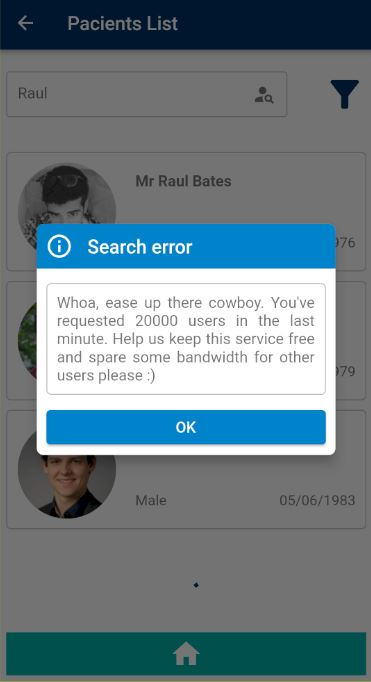
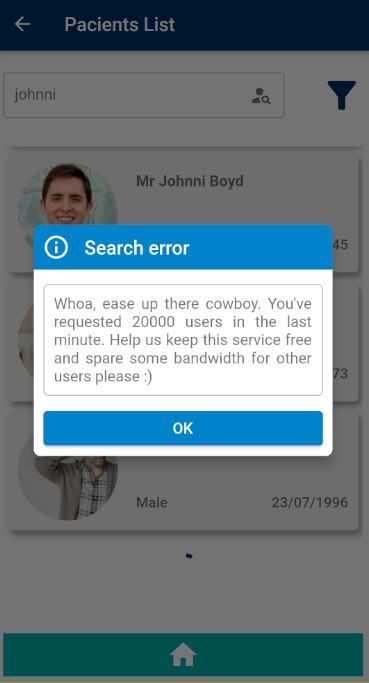
Popover filter and patient item style adjustments

diff --git a/lib/components/popovers/patient_filter_options.dart b/lib/components/popovers/patient_filter_options.dart
@@ -31,6 +31,7 @@ class _PatientFilterOptionsState extends State<PatientFilterOptions> {
             mainAxisSize: MainAxisSize.min,
             children: [
               Radio(
+                activeColor: Theme.of(context).colorScheme.secondaryVariant,
                 value: gender.value,
                 materialTapTargetSize: MaterialTapTargetSize.shrinkWrap,
                 groupValue: widget.filterOptionsService.getSelectedGender,
@@ -56,6 +57,7 @@ class _PatientFilterOptionsState extends State<PatientFilterOptions> {
             mainAxisSize: MainAxisSize.min,
             children: [
               Checkbox(
+                  activeColor: Theme.of(context).colorScheme.secondaryVariant,
                   materialTapTargetSize: MaterialTapTargetSize.shrinkWrap,
                   value: nationality.value,
                   onChanged: (bool? newValue) => setState(() => widget
@@ -76,34 +78,86 @@ class _PatientFilterOptionsState extends State<PatientFilterOptions> {
   Widget build(BuildContext context) {
     return Padding(
       padding: const EdgeInsets.all(10),
-      child: SingleChildScrollView(
-        child: Column(
+      child: Builder(builder: (context) {
+        return SingleChildScrollView(
+          child: Column(
+            crossAxisAlignment: CrossAxisAlignment.start,
+            mainAxisSize: MainAxisSize.min,
+            children: [
+              Text(
+                'Gender:',
+                style: Theme.of(context).textTheme.headline4,
+              ),
+              const SizedBox(height: 5),
+              Wrap(
+                direction: Axis.horizontal,
+                children: getGenders(),
+              ),
+              const SizedBox(height: 15),
+              Text(
+                'Nationalities:',
+                style: Theme.of(context).textTheme.headline4,
+              ),
+              const SizedBox(height: 5),
+              Wrap(
+                direction: Axis.horizontal,
+                children: getNationalitites(),
+              ),
+              const SizedBox(height: 15),
+              ElevatedButton(
+                child: const Text(
+                  'Filter',
+                  style: TextStyle(
+                    fontSize: 16,
+                    fontWeight: FontWeight.w400,
+                  ),
+                ),
+                style: ElevatedButton.styleFrom(
+                    tapTargetSize: MaterialTapTargetSize.shrinkWrap,
+                    primary: Theme.of(context).colorScheme.secondary,
+                    onPrimary: Colors.white,
+                    minimumSize: const Size.fromHeight(40)),
+                onPressed: () {
+                  FocusScope.of(context).unfocus();
+                  widget.filterFromPopover(
+                      widget.filterOptionsService.getLastNameQuery);
+                  Navigator.of(context).pop();
+                },
+              )
+            ],
+          ),
+        );
+      }),
+    );
+  }
+}
+
+
+/*Padding(
+      padding: const EdgeInsets.all(10),
+      child: Builder(builder: (context) {
+        return Column(
+          crossAxisAlignment: CrossAxisAlignment.start,
           mainAxisSize: MainAxisSize.min,
           children: [
-            Column(
-              mainAxisSize: MainAxisSize.min,
-              crossAxisAlignment: CrossAxisAlignment.start,
-              children: [
-                Text(
-                  'Gender:',
-                  style: Theme.of(context).textTheme.headline4,
-                ),
-                const SizedBox(height: 5),
-                Wrap(
-                  direction: Axis.horizontal,
-                  children: getGenders(),
-                ),
-                const SizedBox(height: 15),
-                Text(
-                  'Nationalities:',
-                  style: Theme.of(context).textTheme.headline4,
-                ),
-                const SizedBox(height: 5),
-                Wrap(
-                  direction: Axis.horizontal,
-                  children: getNationalitites(),
-                )
-              ],
+            Text(
+              'Gender:',
+              style: Theme.of(context).textTheme.headline4,
+            ),
+            const SizedBox(height: 5),
+            Wrap(
+              direction: Axis.horizontal,
+              children: getGenders(),
+            ),
+            const SizedBox(height: 15),
+            Text(
+              'Nationalities:',
+              style: Theme.of(context).textTheme.headline4,
+            ),
+            const SizedBox(height: 5),
+            Wrap(
+              direction: Axis.horizontal,
+              children: getNationalitites(),
             ),
             const SizedBox(height: 15),
             ElevatedButton(
@@ -115,10 +169,10 @@ class _PatientFilterOptionsState extends State<PatientFilterOptions> {
                 ),
               ),
               style: ElevatedButton.styleFrom(
-                tapTargetSize: MaterialTapTargetSize.shrinkWrap,
-                primary: Theme.of(context).colorScheme.secondary,
-                onPrimary: Colors.white,
-              ),
+                  tapTargetSize: MaterialTapTargetSize.shrinkWrap,
+                  primary: Theme.of(context).colorScheme.secondary,
+                  onPrimary: Colors.white,
+                  minimumSize: const Size.fromHeight(40)),
               onPressed: () {
                 FocusScope.of(context).unfocus();
                 widget.filterFromPopover(
@@ -127,8 +181,6 @@ class _PatientFilterOptionsState extends State<PatientFilterOptions> {
               },
             )
           ],
-        ),
-      ),
-    );
-  }
-}
+        );
+      }),
+    );*/

diff --git a/lib/components/patients/patient_item.dart b/lib/components/patients/patient_item.dart
@@ -15,7 +15,7 @@ class PatientItem extends StatelessWidget {
   Widget build(BuildContext context) {
     return GestureDetector(
         child: Container(
-          margin: const EdgeInsets.only(bottom: 10),
+          margin: const EdgeInsets.only(bottom: 10, left: 5, right: 5),
           padding: const EdgeInsets.only(
             left: 0,
             top: 10,
@@ -23,10 +23,18 @@ class PatientItem extends StatelessWidget {
             bottom: 10,
           ),
           decoration: BoxDecoration(
-            border: Border.all(
-              width: 1,
-              color: Colors.grey.shade400,
-            ),
+            boxShadow: const [
+              BoxShadow(
+                color: Colors.grey,
+                blurRadius: 5.0,
+                spreadRadius: 0.0,
+                offset: Offset(
+                  3.0,
+                  5.0,
+                ),
+              ),
+            ],
+            color: Colors.grey.shade200,
             borderRadius: BorderRadius.circular(5),
           ),
           height: MediaQuery.of(context).size.height * 0.16,

diff --git a/lib/main.dart b/lib/main.dart
@@ -38,7 +38,7 @@ class MyApp extends StatelessWidget {
                 headline3: const TextStyle(
                   fontSize: 15,
                   color: Colors.black54,
-                  fontWeight: FontWeight.w400,
+                  fontWeight: FontWeight.w600,
                 ),
                 headline4: const TextStyle(
                   fontSize: 16,
